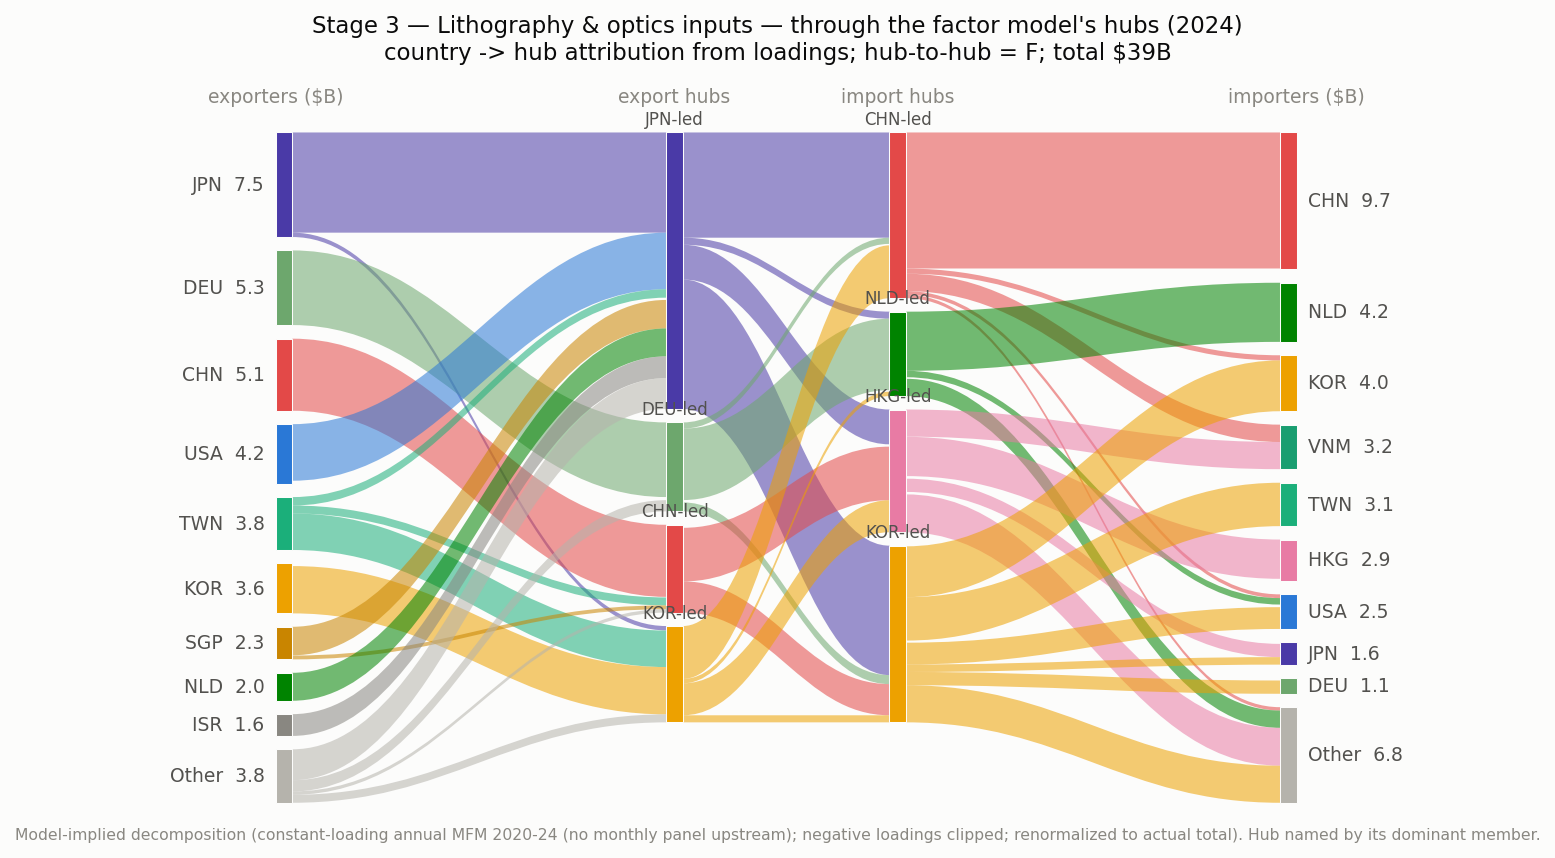
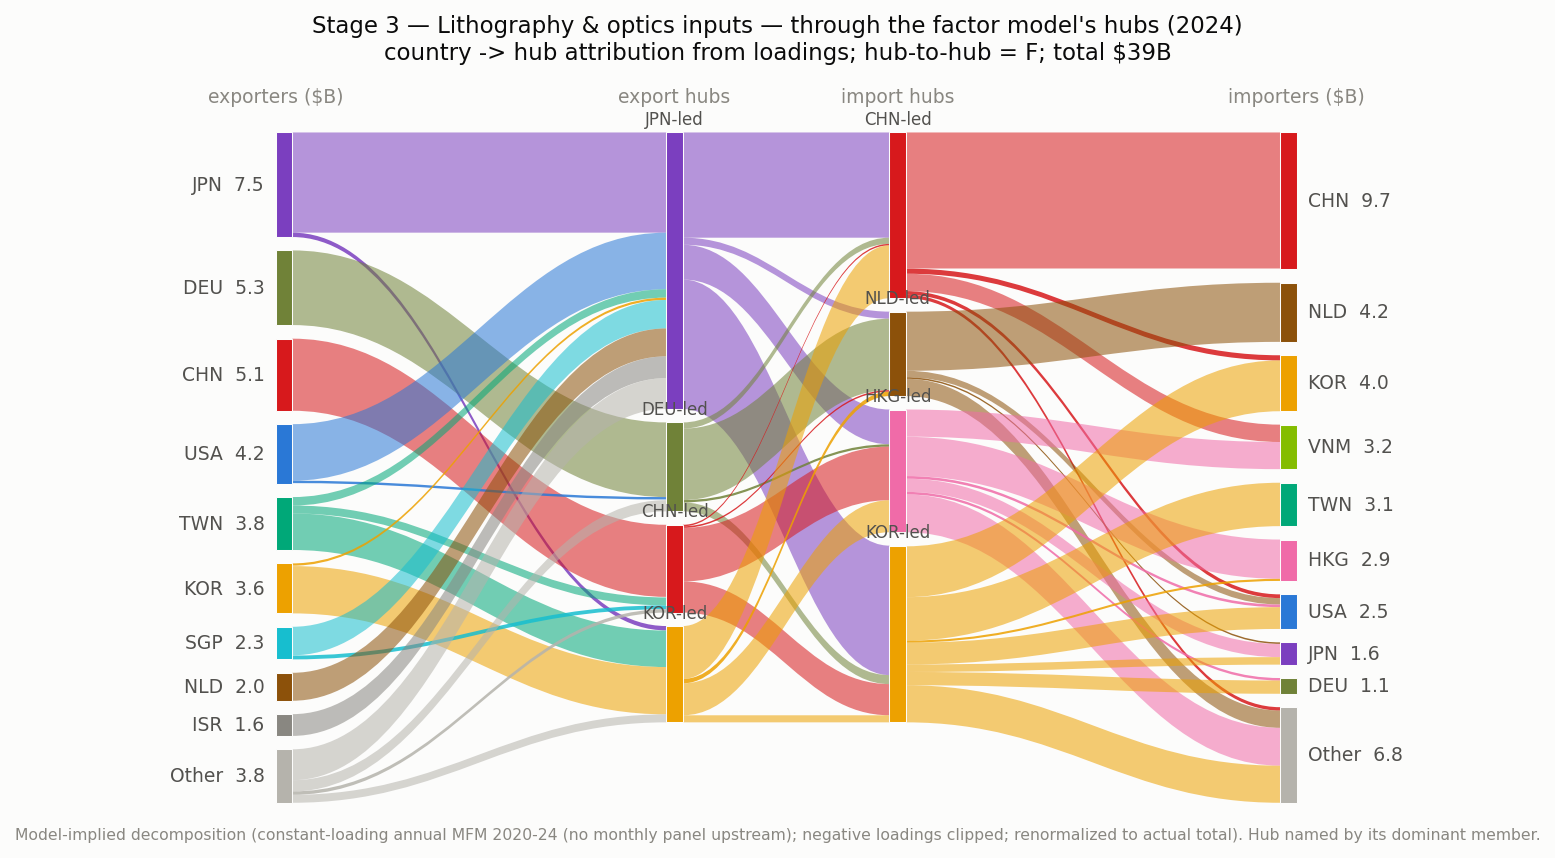
Charts: distinct country palette, visible thin ribbons, threshold folding
- Palette reassigned so no two majors share a hue family (TWN green vs
  NLD brown vs DEU olive; CHN red vs MYS crimson vs MEX orange).
- Thin ribbons get near-full opacity + minimum visual thickness (Japan
  wafer flows now visible); draw threshold lowered.
- Overview folds countries under 5B/side into Other (absolute threshold:
  small stages legitimately show few named countries at chain scale).
- Country labels restored on all overview columns.

diff --git a/scripts/export_supply_chain_sankey.py b/scripts/export_supply_chain_sankey.py
@@ -31,11 +31,13 @@ YEAR = "2024"
 TOP_N = 9               # countries per side; rest folds into "Other"
 OUT_DIR = cfg.ROOT / "exports"
 
-# consistent country colours (dataviz palette; colour follows the entity)
-COLOR = {"TWN": "#1baf7a", "CHN": "#e34948", "HKG": "#e87ba4", "KOR": "#eda100",
-         "JPN": "#4a3aa7", "USA": "#2a78d6", "MEX": "#eb6834", "NLD": "#008300",
-         "DEU": "#6da76d", "SGP": "#c98500", "MYS": "#d95926", "VNM": "#199e70",
-         "THA": "#d55181", "IRL": "#57c785", "Other": "#b5b3ac"}
+# consistent country colours -- one hue family per major country so none collide
+# (CHN red, USA blue, TWN green, KOR amber, JPN violet, HKG pink, MEX orange,
+#  NLD brown, DEU olive, SGP cyan, MYS crimson, VNM lime, THA blue-gray)
+COLOR = {"CHN": "#d7191c", "USA": "#2a78d6", "TWN": "#00a878", "KOR": "#eda100",
+         "JPN": "#7b3fbf", "HKG": "#f06ba8", "MEX": "#f4692e", "NLD": "#8c510a",
+         "DEU": "#708238", "SGP": "#17becf", "MYS": "#c2185b", "VNM": "#84bd00",
+         "THA": "#607d8b", "IRL": "#bdb76b", "Other": "#b5b3ac"}
 FALLBACK = "#898781"
 SURFACE, INK, INK2, MUTED = "#fcfcfb", "#0b0b0b", "#52514e", "#898781"
 
@@ -95,15 +97,19 @@ def top_fold(flows):
 
 
 def ribbon(ax, x0, x1, y0_top, y1_top, h, color):
+    # thin ribbons get near-full opacity and a minimum visual thickness so small
+    # but real flows (e.g. Japan's wafer exports) stay visible
+    h_draw = max(h, 0.0022)
+    alpha = 0.85 if h < 0.008 else 0.55
     cx = (x1 - x0) * 0.42
     verts = [(x0, y0_top), (x0 + cx, y0_top), (x1 - cx, y1_top), (x1, y1_top),
-             (x1, y1_top - h), (x1 - cx, y1_top - h), (x0 + cx, y0_top - h),
-             (x0, y0_top - h), (x0, y0_top)]
+             (x1, y1_top - h_draw), (x1 - cx, y1_top - h_draw),
+             (x0 + cx, y0_top - h_draw), (x0, y0_top - h_draw), (x0, y0_top)]
     codes = [MplPath.MOVETO, MplPath.CURVE4, MplPath.CURVE4, MplPath.CURVE4,
              MplPath.LINETO, MplPath.CURVE4, MplPath.CURVE4, MplPath.CURVE4,
              MplPath.CLOSEPOLY]
     ax.add_patch(PathPatch(MplPath(verts, codes), facecolor=color,
-                           edgecolor="none", alpha=0.55, zorder=1))
+                           edgecolor="none", alpha=alpha, zorder=1))
 
 
 def draw_stage(fname, title, codes_txt, flows):  # unused: plain versions retired
@@ -154,7 +160,7 @@ def draw_stage(fname, title, codes_txt, flows):  # unused: plain versions retire
             y1 = im_pos[t][0] - in_off[t]
             out_off[o] += h
             in_off[t] += h
-            if h > 0.004:                        # skip invisible slivers (drawn as node mass)
+            if h > 0.0012:                        # skip invisible slivers (drawn as node mass)
                 ribbon(ax, x0n + nw, x1n, y0, y1, h, COLOR.get(o, FALLBACK))
 
     for c, (y, h) in ex_pos.items():
@@ -312,7 +318,7 @@ def draw_hub_chart(fname, title, code_or_baskets, kind):
             y1 = dst_pos[dk][0] - in_off[dk]
             out_off[sk] += h
             in_off[dk] += h
-            if h > 0.004:
+            if h > 0.0012:
                 ribbon(ax, xs[gap] + nw, xs[gap + 1], y0, y1, h, color_of(sk, dk))
 
     band(0, ex_pos, hubR_pos,
@@ -365,25 +371,28 @@ def draw_chain_overview(input_stages, seq_stages, MODE="dollar"):
     materials, wafers, litho/optics, equipment) are PARALLEL, converging on the fab
     checkpoint; chips -> parts -> baseboards -> servers then run sequentially.
     MODE governs vertical scale: 'dollar' (one $ scale), 'log' (heights ~ log10 of
-    flow-set total), 'normalized' (equal heights / full column per stage)."""
-    TOPI, TOPG = 4, 5
+    flow-set total), 'normalized' (equal heights / full column per stage).
+    Countries below FOLD_MIN ($B, side total) fold into 'Other' -- an absolute
+    threshold, so a small stage (raw materials) may legitimately show no
+    individual countries at chain scale."""
+    FOLD_MIN = 5.0
 
-    def fold(flows, n):
+    def fold(flows):
         ex = pd.Series(dtype=float)
         im = pd.Series(dtype=float)
         for (o, t), v in flows.items():
             ex[o] = ex.get(o, 0.0) + v
             im[t] = im.get(t, 0.0) + v
-        ko = set(ex.sort_values(ascending=False).head(n).index)
-        kt = set(im.sort_values(ascending=False).head(n).index)
+        ko = set(ex[ex >= FOLD_MIN].index)
+        kt = set(im[im >= FOLD_MIN].index)
         f = {}
         for (o, t), v in flows.items():
-            f[(o if o in ko else "Other", t if t in kt else "Other")] = \
-                f.get((o if o in ko else "Other", t if t in kt else "Other"), 0.0) + v
+            key = (o if o in ko else "Other", t if t in kt else "Other")
+            f[key] = f.get(key, 0.0) + v
         return f
 
-    inputs = [(lab, fold(fl, TOPI)) for lab, fl in input_stages]
-    seqs = [(lab, fold(fl, TOPG)) for lab, fl in seq_stages]
+    inputs = [(lab, fold(fl)) for lab, fl in input_stages]
+    seqs = [(lab, fold(fl)) for lab, fl in seq_stages]
     in_totals = [sum(f.values()) for _, f in inputs]
     seq_totals = [sum(f.values()) for _, f in seqs]
 
@@ -487,7 +496,7 @@ def draw_chain_overview(input_stages, seq_stages, MODE="dollar"):
                 y1 = fab_pos[t][0] - fab_in_off[t]
                 out_off[o] += h
                 fab_in_off[t] += h
-                if h > 0.0035:
+                if h > 0.0012:
                     ribbon(ax, x_in + nw, xs[0], y0, y1, h, COLOR.get(o, FALLBACK))
 
     # sequential ribbons
@@ -505,15 +514,18 @@ def draw_chain_overview(input_stages, seq_stages, MODE="dollar"):
                 y1 = dst[t][0] - in_off[t]
                 out_off[o] += h
                 in_off[t] += h
-                if h > 0.0035:
+                if h > 0.0012:
                     ribbon(ax, xs[g] + nw, xs[g + 1], y0, y1, h, COLOR.get(o, FALLBACK))
 
-    # nodes
+    # nodes (+ country labels wherever there is room)
     for lab, gpos, sc in in_group_pos:
         for n_, (y, h) in gpos.items():
             ax.add_patch(plt.Rectangle((x_in, y - h), nw, h,
                                        facecolor=COLOR.get(n_, FALLBACK),
                                        edgecolor=SURFACE, lw=0.4, zorder=3))
+            if h > 0.012:
+                ax.text(x_in - 0.005, y - h / 2, n_, ha="right", va="center",
+                        fontsize=7.5, color=INK2, zorder=4)
         top = max(y for y, h in gpos.values())
         ax.text(x_in, top + 0.012, lab, ha="left", fontsize=8.5, color=INK, weight="bold")
     for c, pos in enumerate(col_pos):
@@ -521,6 +533,9 @@ def draw_chain_overview(input_stages, seq_stages, MODE="dollar"):
             ax.add_patch(plt.Rectangle((xs[c], y - h), nw, h,
                                        facecolor=COLOR.get(n_, FALLBACK),
                                        edgecolor=SURFACE, lw=0.4, zorder=3))
+            if h > 0.015:
+                ax.text(xs[c] + nw / 2, y + 0.006, n_, ha="center", va="bottom",
+                        fontsize=7, color=INK2, zorder=4)
 
     # captions
     ax.text((x_in + xs[0]) / 2, 1.10, "parallel inputs into fabs", ha="center",
@@ -550,7 +565,8 @@ def draw_chain_overview(input_stages, seq_stages, MODE="dollar"):
                  f"fabs; chips flow on to servers ({scale_note})",
                  fontsize=13, color=INK, y=0.985)
     ax.text(0.5, -0.155, "Ribbon colour = exporting country (legend above); columns are "
-            "checkpoints (buy left, sell right). Smallest corridors not drawn. No "
+            f"checkpoints (buy left, sell right). Countries under {FOLD_MIN:.0f}B on a "
+            "side fold into Other, so small stages may show few named countries. No "
             "cross-stage absorption implied. Sources: docs/tech-ai-taxonomy.md; Atlas "
             "HS2012 bilateral / monthly panel.", ha="center", fontsize=8, color=MUTED)
     out = OUT_DIR / f"supply_chain_overview_{MODE}_{YEAR}.png"
@@ -644,7 +660,7 @@ def draw_overview(stage_flows, MODE="dollar"):  # unused: replaced by draw_chain
                 y1 = node_pos[g + 1][t][0] - in_off[t]
                 out_off[o] += h
                 in_off[t] += h
-                if h > 0.0035:
+                if h > 0.0012:
                     ribbon(ax, xs[g] + nw, xs[g + 1], y0, y1, h, COLOR.get(o, FALLBACK))
 
     for c in range(n_cols):
